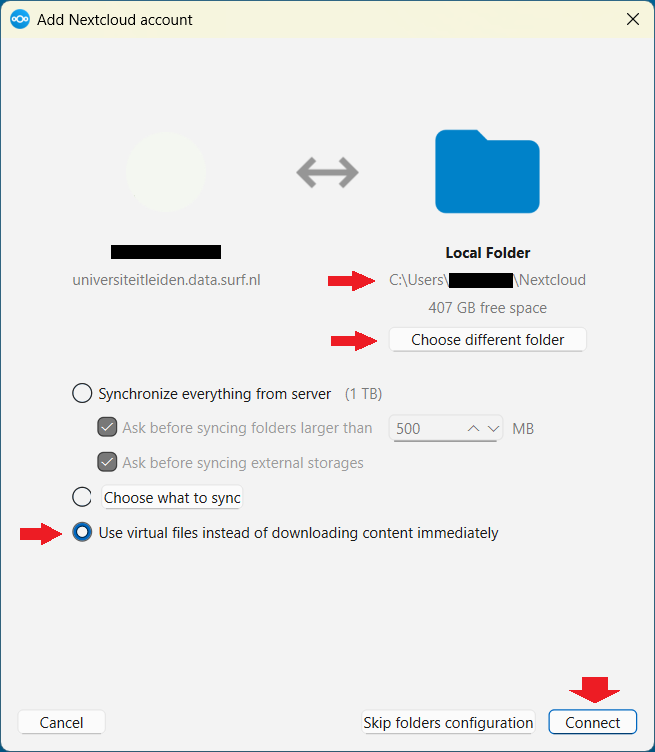
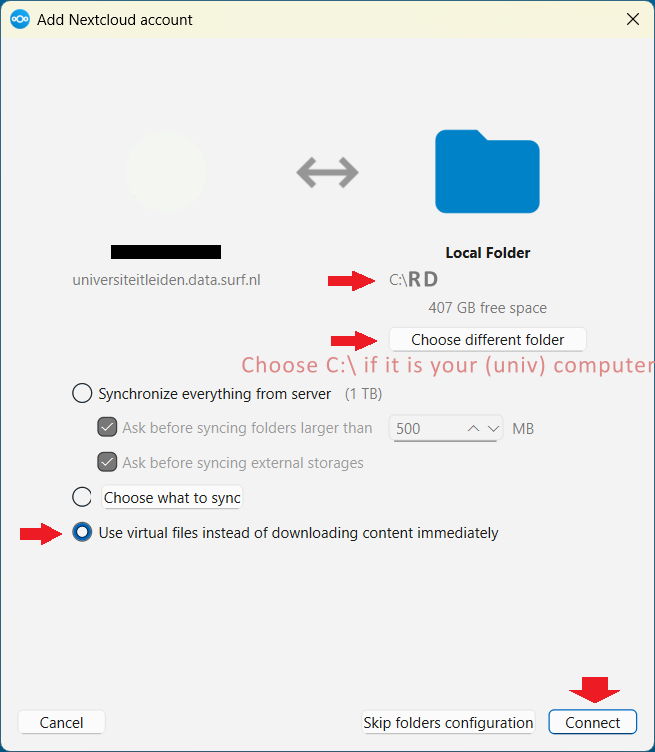
ResearchDrive can be set at c:\ Fixes #144

diff --git a/docs/source/rdm_howtos/ResearchDrive.md b/docs/source/rdm_howtos/ResearchDrive.md
@@ -167,7 +167,7 @@ If Windows cannot create a folder/file locally due to path length, the Nextcloud
 
 #### Common scenarios where files cannot be stored (or synced)
 
-- Deep folder nesting (many subfolders), especially when the local sync folder is already long (for example under `C:\Users\<name>\Documents\...`).
+- Deep folder nesting (many subfolders), especially when the local sync folder is already long (for example under `C:\RD`).
 - Very long filenames, or filenames generated by software exports (for example, long sample IDs + many parameters in the name).
 - Extracting archives (ZIP/TAR) into a synced folder: the extracted structure is often deeper than expected.
 - Cloning software repositories into Research Drive (for example, projects containing `node_modules`, `venv`, `conda` environments, or other dependency trees).
